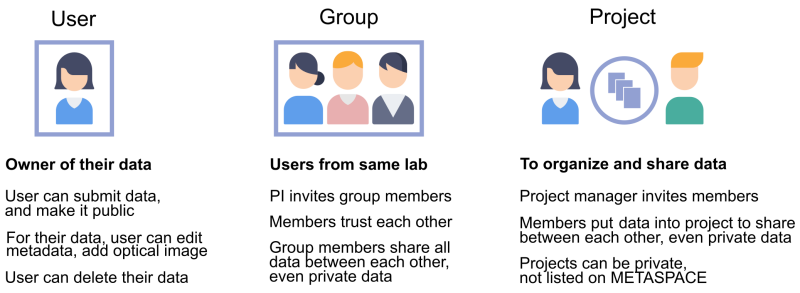
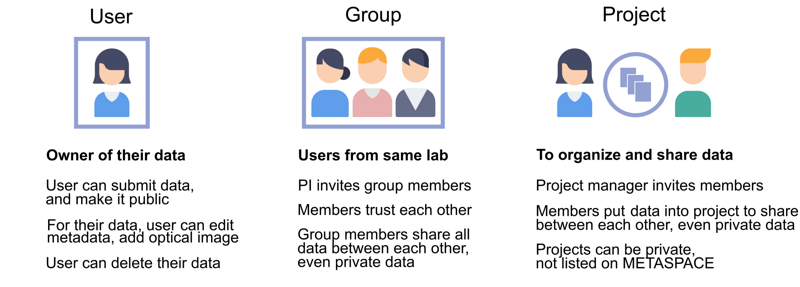
Change alignment of image

diff --git a/metaspace/webapp/src/modules/App/ReleaseNotesDialog.vue b/metaspace/webapp/src/modules/App/ReleaseNotesDialog.vue
@@ -101,8 +101,6 @@
     margin-left: auto;
     margin-right: auto;
   }
-  .img-acct, .img-grp {
-  }
   .img-acct {
     background: url('../../assets/release_notes_create_account.png') no-repeat center;
     background-size: contain;
